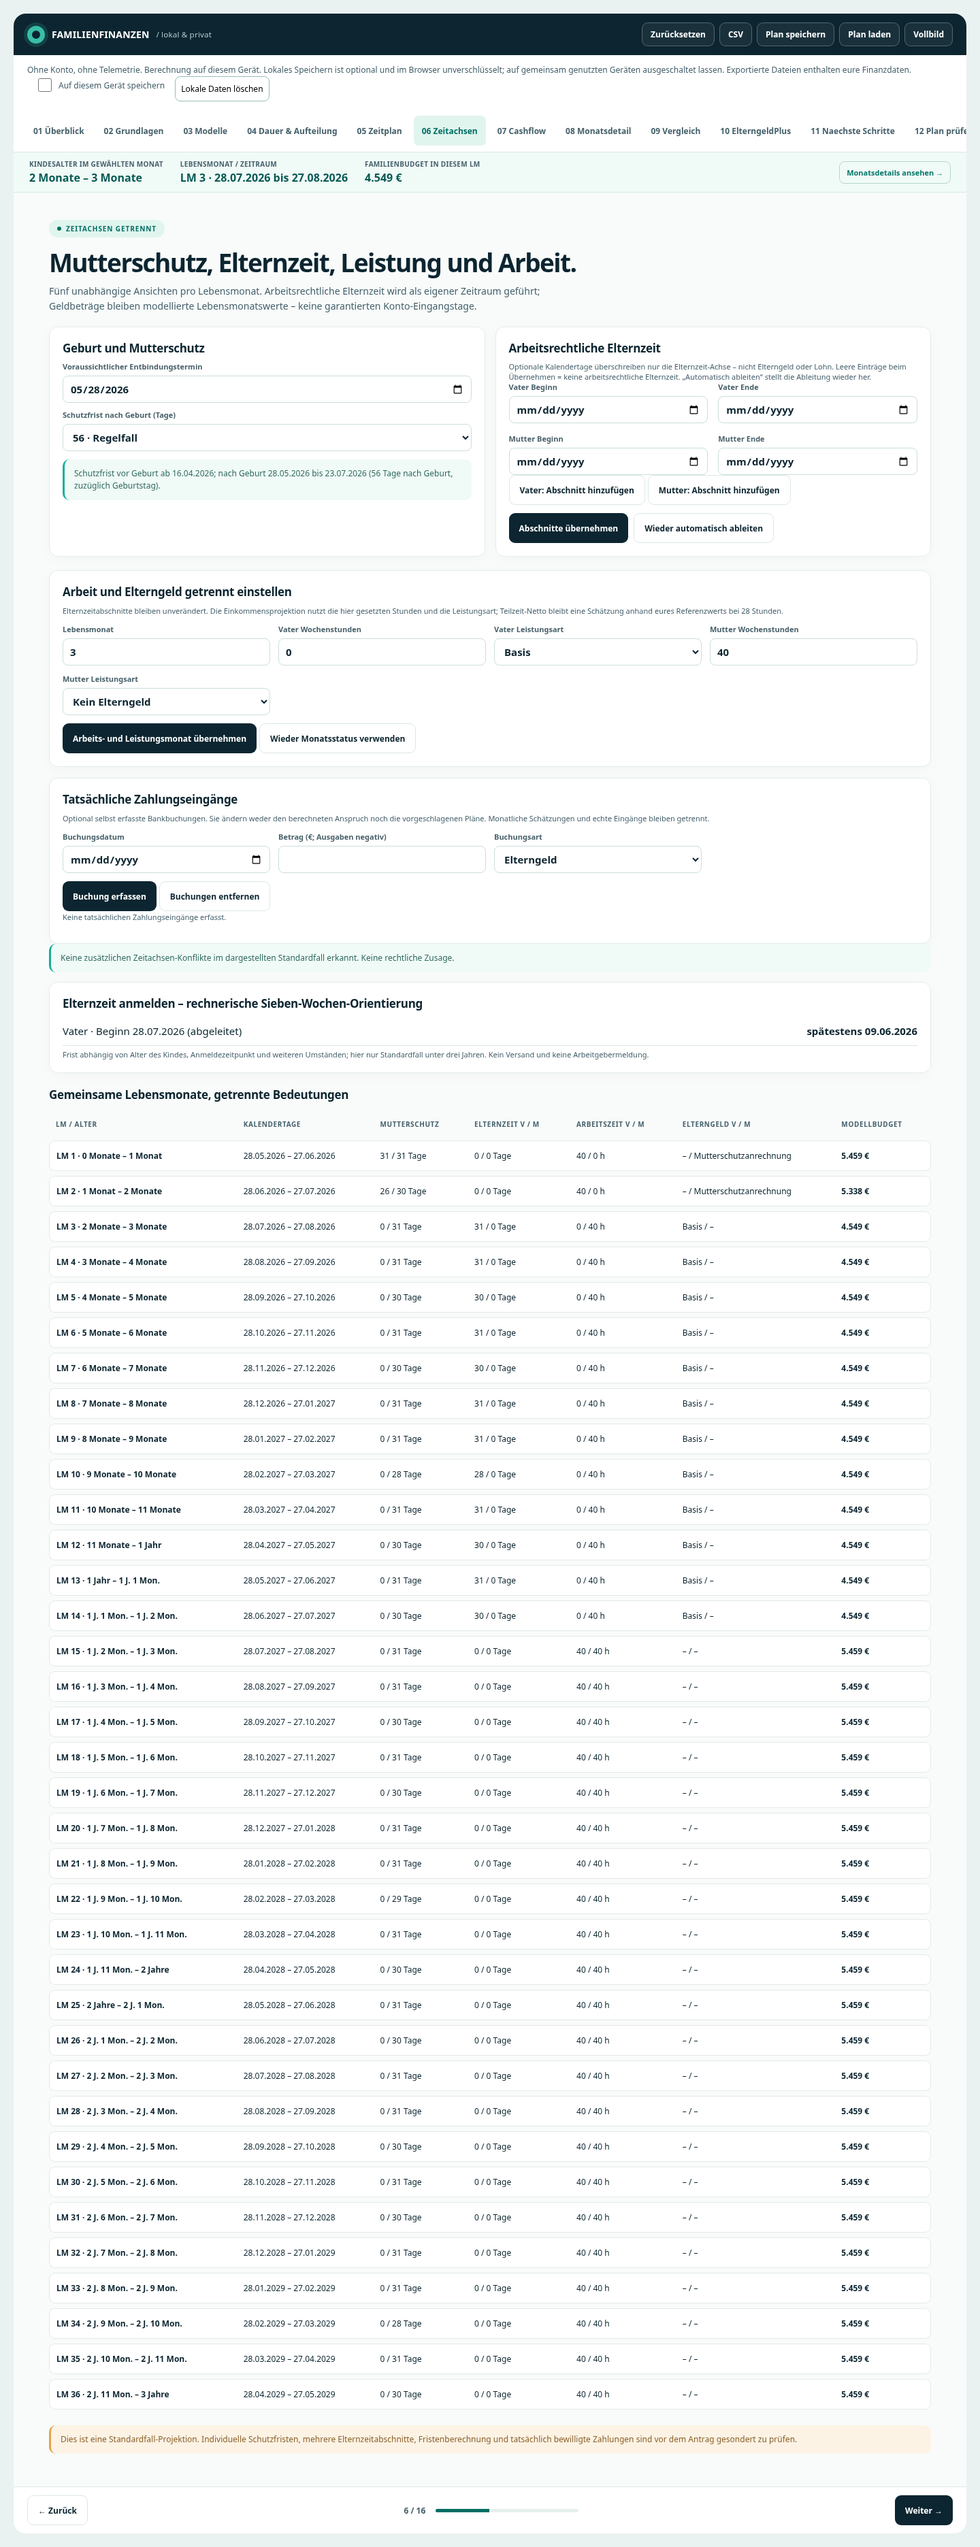
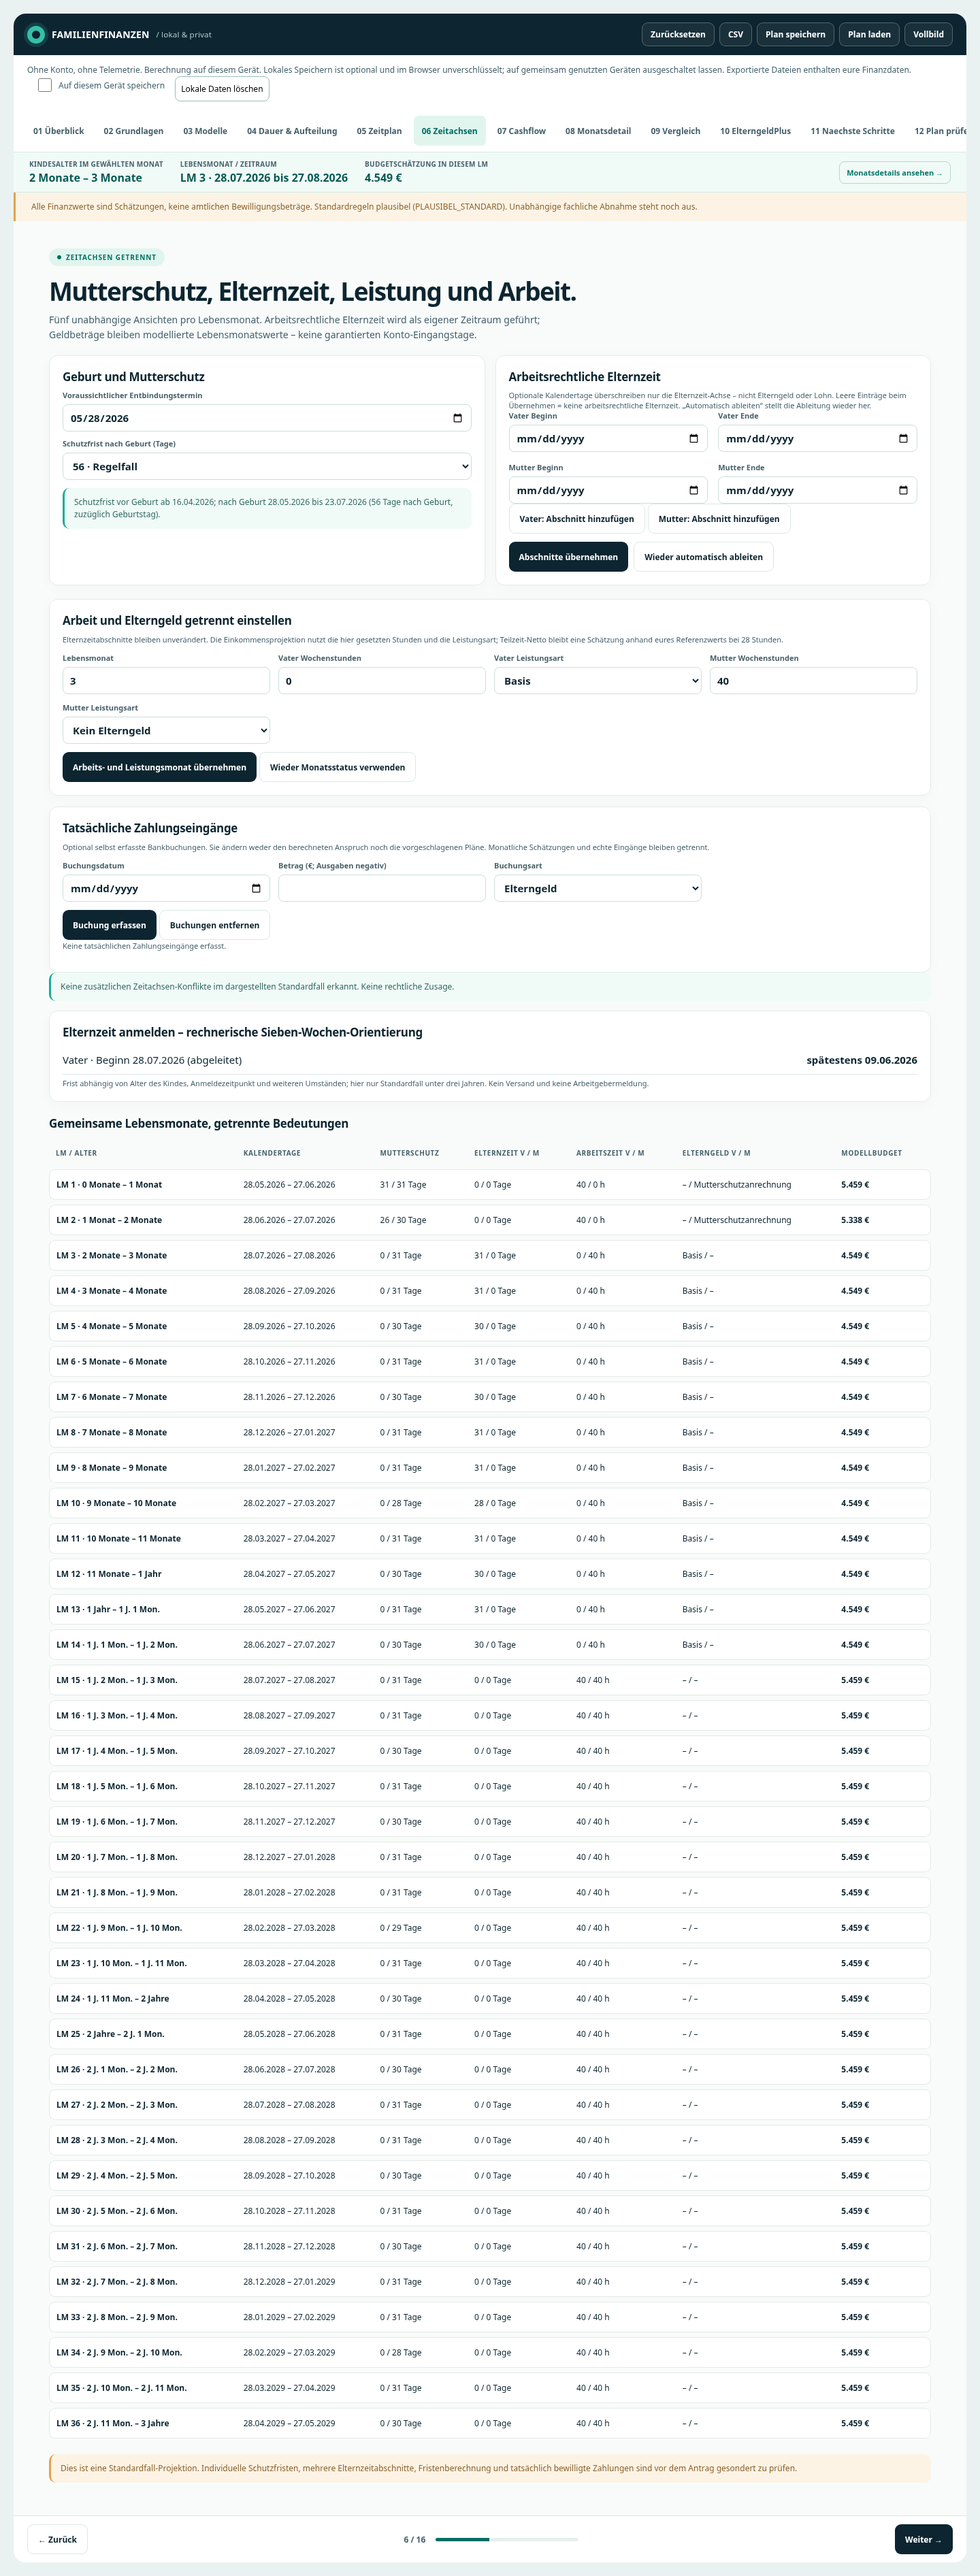
fix: expose estimate and validation status consistently across all views

diff --git a/index.html b/index.html
@@ -67,9 +67,10 @@
  <div class="live-strip noprint" aria-live="polite">
    <div class="live-item"><span>Kindesalter im gewählten Monat</span><strong id="liveAge">0–1 Monat</strong></div>
    <div class="live-item"><span>Lebensmonat / Zeitraum</span><strong id="liveMonth">LM 3</strong></div>
-   <div class="live-item"><span>Familienbudget in diesem LM</span><strong id="liveBudget">4.549 €</strong></div>
+   <div class="live-item"><span>Budgetschätzung in diesem LM</span><strong id="liveBudget">4.549 €</strong></div>
    <button type="button" class="live-link" data-goto="slide-6">Monatsdetails ansehen →</button>
  </div>
+ <div id="globalPlanStatus" class="note warn" aria-live="polite" style="border-radius:0;padding:12px 23px"></div>
  <main class="stage" id="stage">
   <section class="slide active" data-title="Überblick" id="slide-1">
    <div class="hero">
@@ -1379,7 +1380,7 @@ function renderInputs(){document.querySelectorAll('[data-field], [data-build]').
  setTxt('ptEffectiveFather',euro(ptNet('f')));setTxt('ptEffectiveMother',euro(ptNet('m')));
  setTxt('ptHoursFather',s.hoursFather);setTxt('ptHoursMother',s.hoursMother);
 }
-function renderHeader(){setTxt('heroGross',euro(s.grossFather));const r=current.rows[s.month-1];setTxt('liveAge',ageSpan(s.month));setTxt('liveMonth','LM '+s.month+' · '+dateFor(s.month));setTxt('liveBudget',euro(r.income));}
+function renderHeader(){const labels={PLAUSIBEL_STANDARD:'Standardregeln plausibel',REGELKONFLIKT:'Regelkonflikt',NICHT_UNTERSTUETZT:'Konstellation nicht validiert',DATEN_UNVOLLSTAENDIG:'Angaben zur Prüfung fehlen'};setTxt('globalPlanStatus','Alle Finanzwerte sind Schätzungen, keine amtlichen Bewilligungsbeträge. '+labels[current.validation.status]+' ('+current.validation.status+'). '+(current.valid?'Unabhängige fachliche Abnahme steht noch aus.':current.validation.findings[0]?.message||'Plan bitte korrigieren.'));setTxt('heroGross',euro(s.grossFather));const r=current.rows[s.month-1];setTxt('liveAge',ageSpan(s.month));setTxt('liveMonth','LM '+s.month+' · '+dateFor(s.month));setTxt('liveBudget',euro(r.income));}
 function modelInfo(schedule,limit=s.horizon){const x=evaluate(schedule);return {total:x.sum(limit,'income'),eg:x.sum(N,'totalEg'),free:x.fFree,leave:x.fLeave,low:x.low(limit),valid:x.valid,errors:x.errors}}
 function renderModels(){
  $('modelGrid').innerHTML=SCENARIOS.map(x=>{const q=modelInfo(makeSchedule(x.id));return '<button type="button" class="model-card '+(s.model===x.id?'selected':'')+'" data-model="'+x.id+'" aria-pressed="'+(s.model===x.id)+'"><span class="model-title">'+esc(x.name)+'</span><span class="model-desc">'+esc(x.short)+'</span><span class="model-amount">'+euro(q.total)+'</span><span class="model-sub">Familienbudget / '+s.horizon+' LM (0–'+age(s.horizon)+')</span></button>';}).join('');
@@ -2072,7 +2073,7 @@ function renderRegion(){
  if(region==='NRW'){
   parts.push({label:'Allgemeines NRW-Familiengeld (Einzelgeburt)',state:'Nicht gefunden',message:'In den amtlich gesichteten NRW-Leistungsübersichten ist für eine einzelne Geburt kein allgemeiner zusätzlicher monatlicher Landesbetrag ausgewiesen. Deshalb 0 € im Modell.',url:'https://www.familienportal.nrw/'});
   parts.push({label:'NRW Mehrlingsgeld / Ehrenpatenschaft',state:Number(s.births)>=3?'Möglicher Anspruch':'Nicht zutreffend',message:'Ab Drillingen derzeit 1.000 € je Kind einmalig, an NRW-Hauptwohnsitz und weitere Voraussetzungen gebunden. Widersprüchliche Angaben zum Antragsverfahren: vor Verwendung bestätigen.',url:'https://recht.nrw.de/lrmb/bekanntmachung/01012019-bekanntmachung-der-einfuehrung-einer-ehrenpatenschaft-des/'});
-  if(String(s.city||'').toLowerCase().includes('köln'))parts.push({label:'Kölner Kita- / Tagespflegebeiträge',state:s.childcareMode==='cologne2025'?'2025-Tarif als Szenario aktiv':'Manuell oder historisches Szenario',message:'Tabelle gültig ab August 2025; unterschieden nach Kind unter 2 / ab 2, Jahresbemessung und 25/35/45 Stunden. 2027 nicht verifiziert. Kita-Essen separat.',url:'https://www.stadt-koeln.de/service/produkte/00405/index.html'});
+  if(String(s.city||'').toLowerCase().includes('köln'))parts.push({label:'Kölner Kita- / Tagespflegebeiträge',state:s.childcareMode==='cologne2025'?'Historische Referenz – Budget bleibt manuell':'Manuelle Kostenschätzung',message:'Tabelle gültig ab August 2025; unterschieden nach Kind unter 2 / ab 2, Jahresbemessung und 25/35/45 Stunden. 2027 nicht verifiziert. Kita-Essen separat.',url:'https://www.stadt-koeln.de/service/produkte/00405/index.html'});
  }else if(region==='BY')parts.push({label:'Bayerisches Familiengeld',state:year>=2025?'Nicht anspruchsberechtigt':'Prüfung',message:'Für Kinder ab 01.01.2025 entfallen; das zeitweilig geplante Kinderstartgeld wurde 2025 nicht eingeführt.',url:'https://www.zbfs.bayern.de/familienleistungen/familiengeld/'});
  else if(region==='SN')parts.push({label:'Sächsisches Landeserziehungsgeld',state:'Individuell prüfen',message:'Es existieren besondere Einkommens-, Alters- und Betreuungsbedingungen; ohne geprüften Anspruch kein pauschaler Betrag.',url:'https://revosax.sachsen.de/vorschrift/5132.11'});
  else parts.push({label:'Weitere Landesprogramme',state:'Recherche offen',message:'Für dieses Bundesland ist kein belastbarer vollständiger Landesregelbestand hinterlegt. Nicht als „keine Leistung“ interpretieren.',url:'https://familienportal.de/'});

diff --git a/docs/ARCHITEKTUR.md b/docs/ARCHITEKTUR.md
@@ -24,4 +24,4 @@ Bankbuchungen verwenden tatsächliche Kalendertage. Sie werden niemals aus einem
 
 ## Fachliche Grenzen
 
-Die vollständige amtliche Brutto-Netto-Ermittlung fehlt weiterhin; eingegebenes Elterngeld-Netto und Stunden-Netto sind Schätzwerte. Der Mutterschutzvergleich weist eine konkrete amtliche Referenzabweichung auf, siehe Zeitachsen-Dokumentation und Abnahmebericht. Steuerwirkung, Kranken-/Pflegeversicherung, Rückforderungen und Sonderfälle brauchen unabhängige Prüfung. Daher ist V3.3.0 ein interner Prüfstand, kein fachlich freigegebener öffentlicher Release Candidate.
+Schätzcharakter und strukturierter Prüfstatus sind in jeder Ansicht direkt unter der Budgetübersicht sichtbar. Die vollständige amtliche Brutto-Netto-Ermittlung fehlt weiterhin; eingegebenes Elterngeld-Netto und Stunden-Netto sind Schätzwerte. Der Mutterschutzvergleich weist eine konkrete amtliche Referenzabweichung auf, siehe Zeitachsen-Dokumentation und Abnahmebericht. Steuerwirkung, Kranken-/Pflegeversicherung, Rückforderungen und Sonderfälle brauchen unabhängige Prüfung. Daher ist V3.3.0 ein interner Prüfstand, kein fachlich freigegebener öffentlicher Release Candidate.
